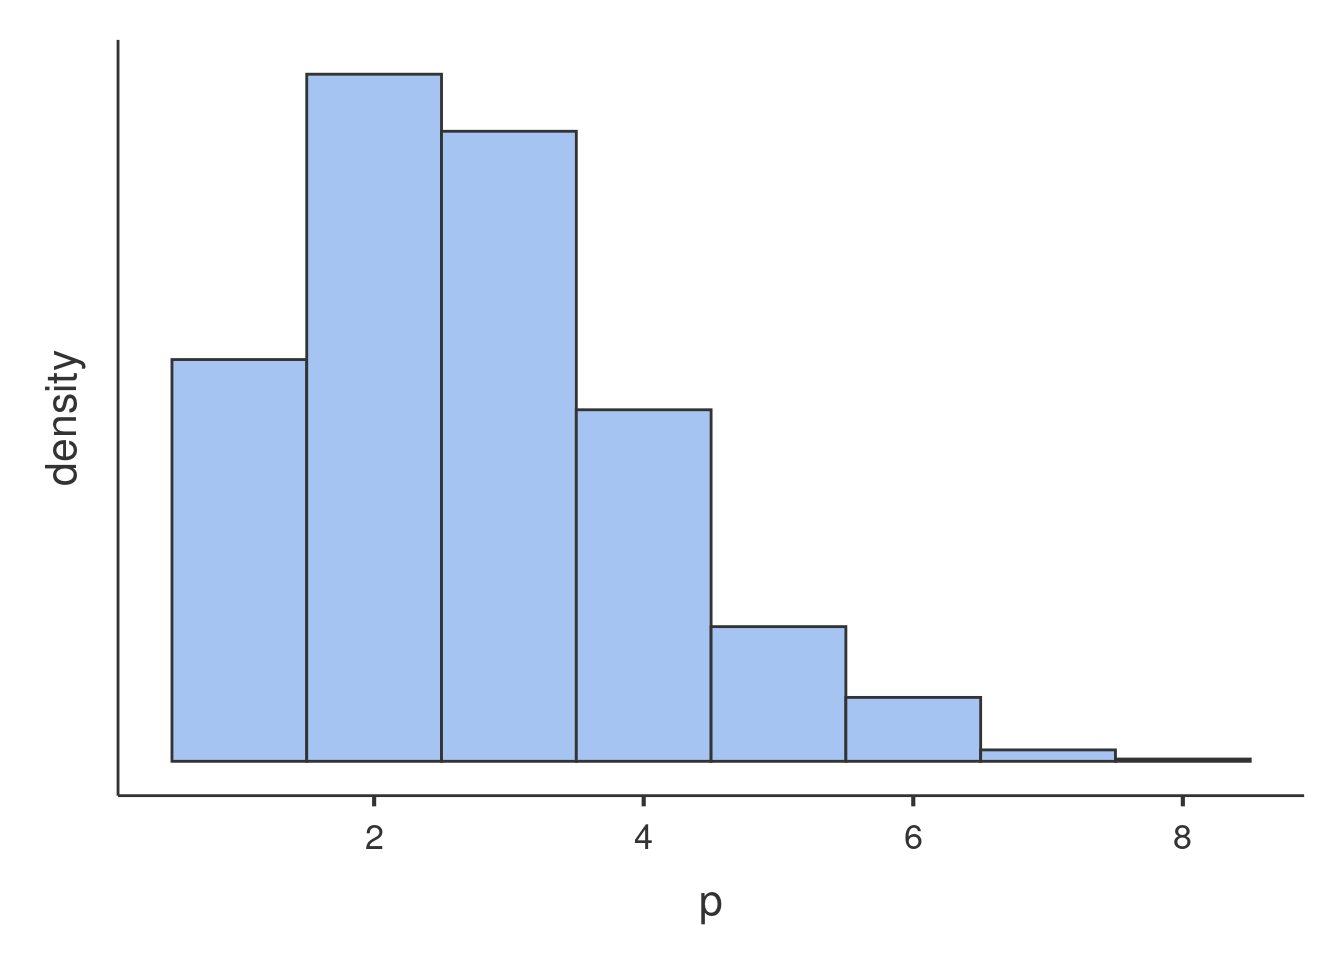
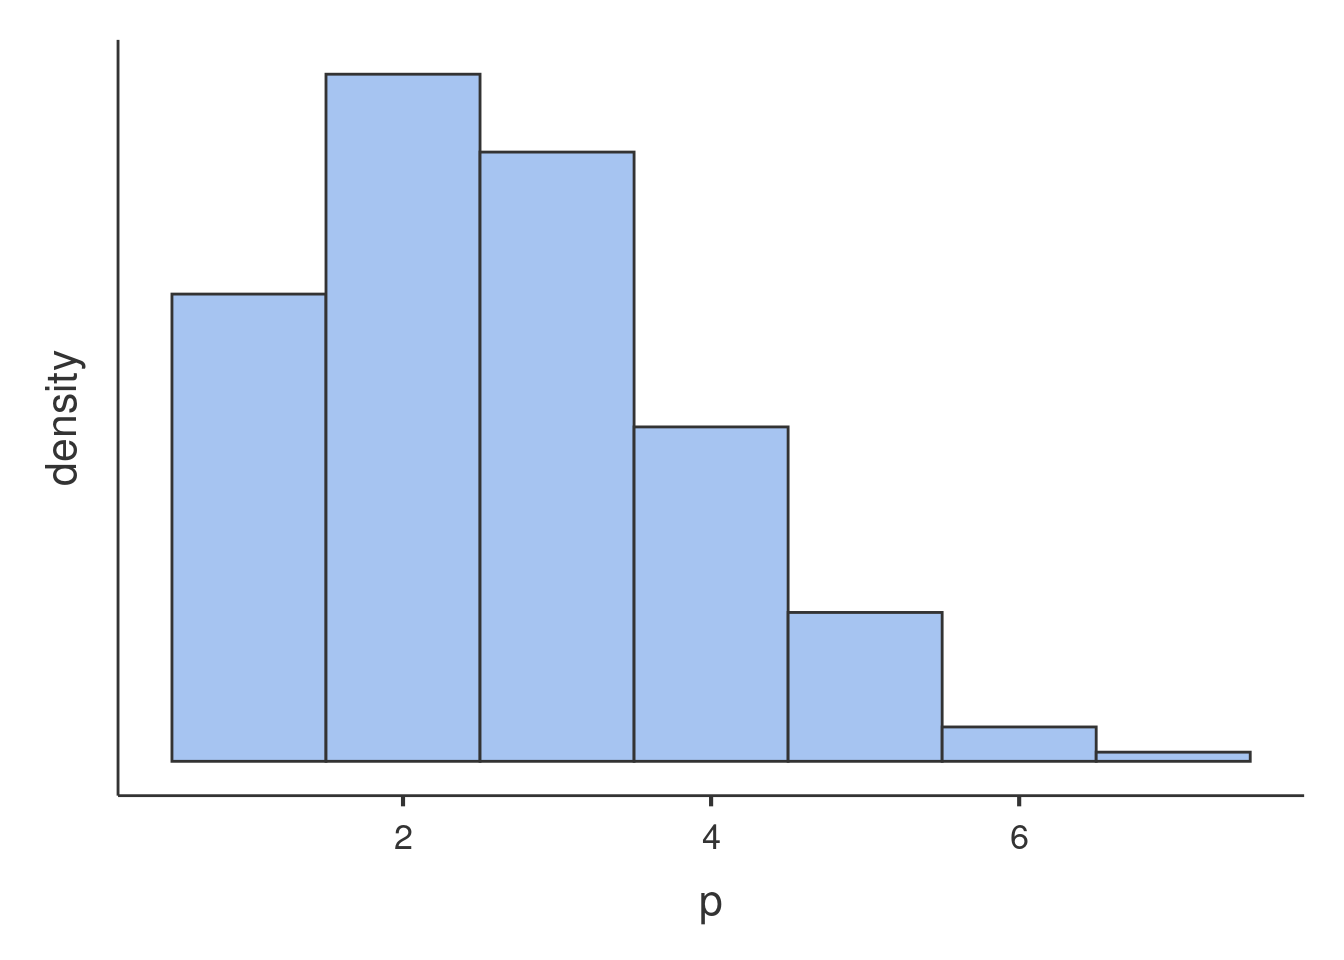
updates

diff --git a/docs/glmmixed_example2.html b/docs/glmmixed_example2.html
@@ -424,8 +424,8 @@ Generalized Linear Model with Poisson distribition may work. However, we
 can check wheather our distribution is in line with the features of the
 Poisson dist by checking its mean and variance. The Poisson distribution
 has variance equal to the mean, in fact the simulated distribution in
-the histogram has <span class="math inline">\(\bar{x}=1.731\)</span> and
-<span class="math inline">\(s^2=1.72\)</span>. The <code>art</code>
+the histogram has <span class="math inline">\(\bar{x}=1.629\)</span> and
+<span class="math inline">\(s^2=1.585\)</span>. The <code>art</code>
 variable distribution has <span
 class="math inline">\(\bar{x}=1.693\)</span> and <span
 class="math inline">\(s^2=3.71\)</span>, with a ratio variance/mean of

diff --git a/docs/helpstyle.css b/docs/helpstyle.css
@@ -208,3 +208,24 @@ span.filename {
 .sourceCode {
   clear: both;
 }
+
+
+
+div.bignote {
+  display: inline-block;
+  padding: 15px;
+  color:  #212f3c ;
+  font-size: 1.1em;
+  border-radius: 5px; 
+  background-color:  #d6eaf8 ;
+  margin-bottom: 10px;
+}
+
+div.enf {
+  display: inline-block;
+  padding: 15px;
+  border-left: 10px solid   #d6eaf8;
+  font-size: 1.1em;
+  margin-bottom: 10px;
+  text-align: justify;
+}

diff --git a/docssource/helpstyle.css b/docssource/helpstyle.css
@@ -208,3 +208,24 @@ span.filename {
 .sourceCode {
   clear: both;
 }
+
+
+
+div.bignote {
+  display: inline-block;
+  padding: 15px;
+  color:  #212f3c ;
+  font-size: 1.1em;
+  border-radius: 5px; 
+  background-color:  #d6eaf8 ;
+  margin-bottom: 10px;
+}
+
+div.enf {
+  display: inline-block;
+  padding: 15px;
+  border-left: 10px solid   #d6eaf8;
+  font-size: 1.1em;
+  margin-bottom: 10px;
+  text-align: justify;
+}
